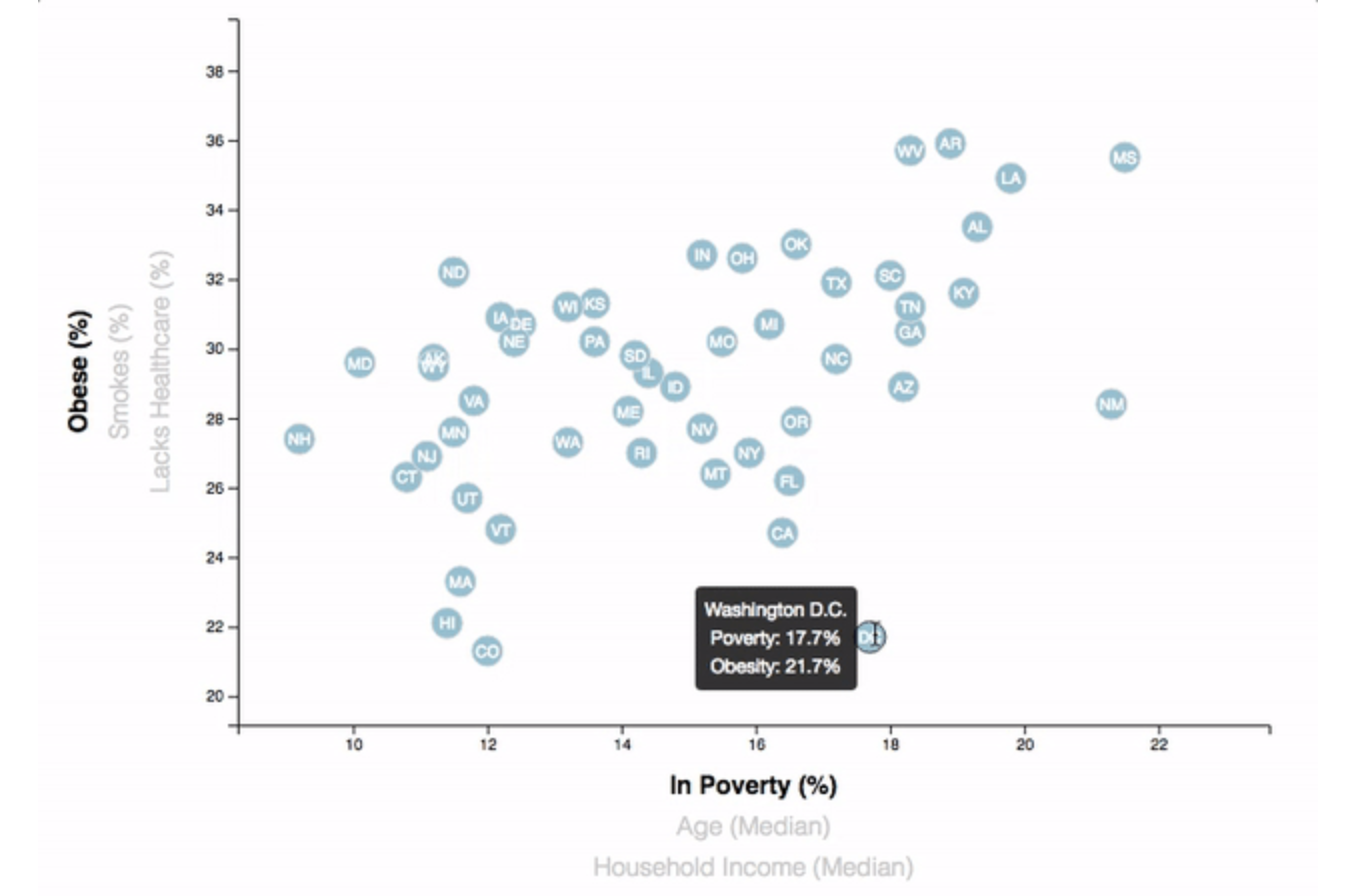
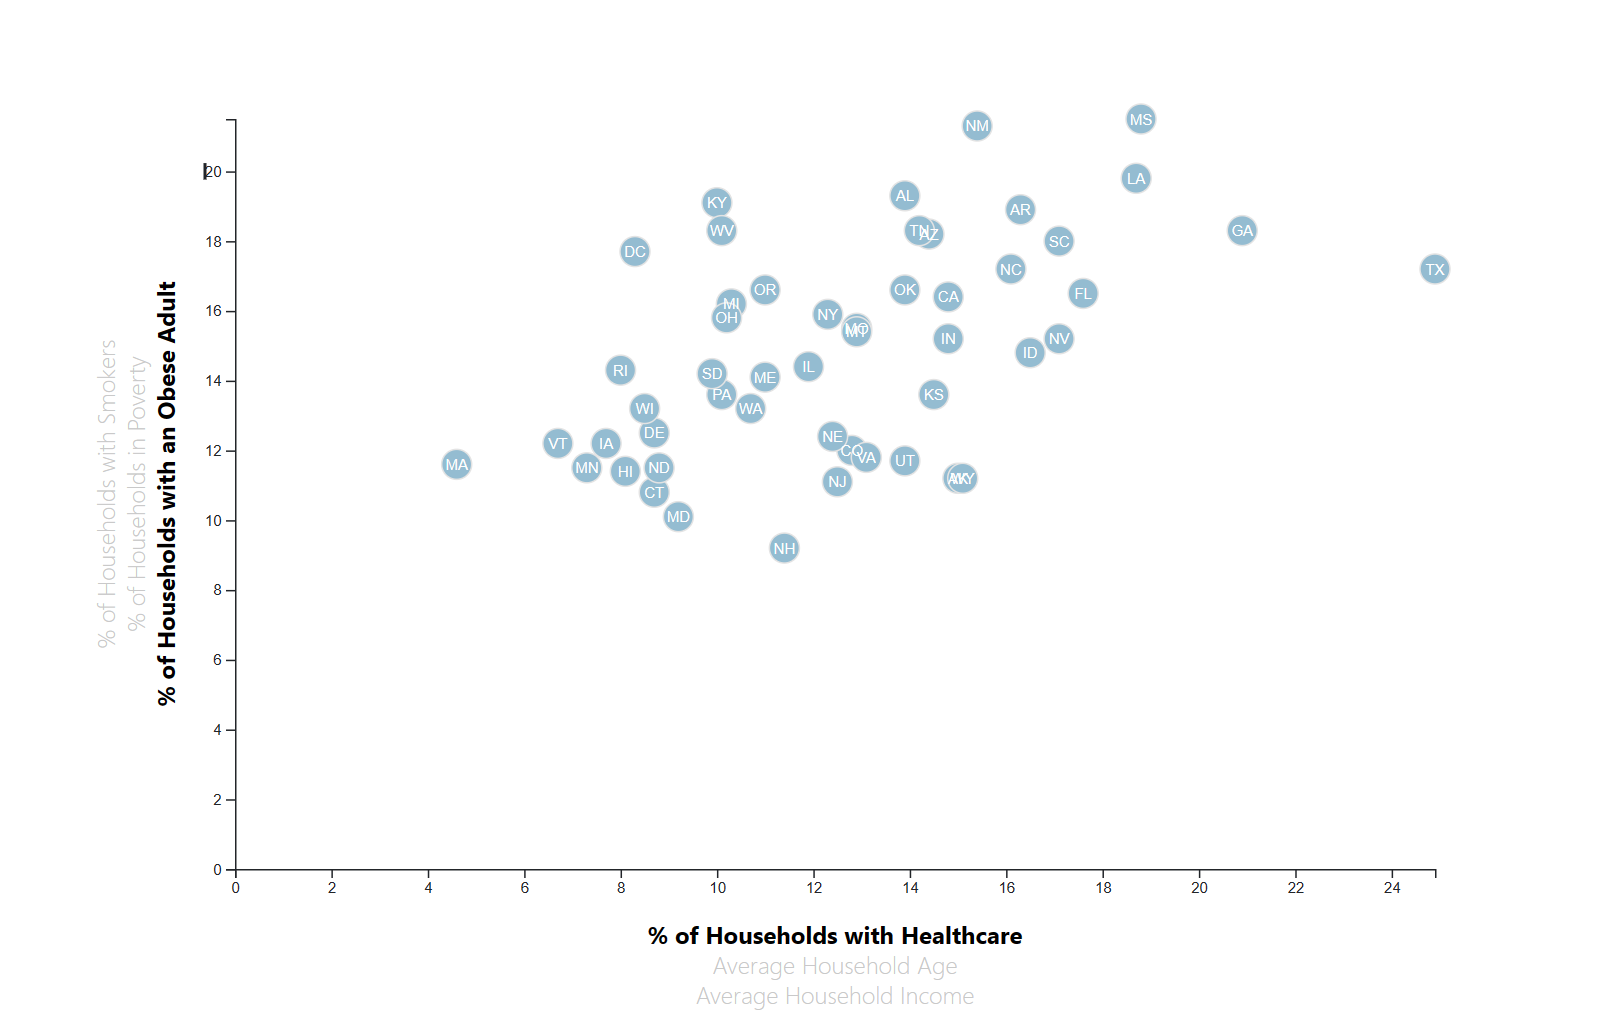
2023 update

diff --git a/projects.html b/projects.html
@@ -52,57 +52,58 @@
       <h1 class="lg-heading">
         <span class="text-secondary">Projects</span>
       </h1>
+      <div class="project-item">
+        <h2 class="proj-title">
+          Supreme Court Opinion Prediction
+        </h2>
+        <p class="proj-description">
+          In the leadup to many US Supreme Court cases, there is sometimes consensus on the expected rulings, which seem to be based on the existing rulings made by the court and Its Justices. Predictions based on existing and publicly accessible text? Sounds like a deep learning project! This is a rudimentary attempt at predicting the Supreme Court’s ruling on a case when provided a brief overview of the case.
+        </p>
+        <a href="#!">
+          <iframe
+          class="embedded-hf-frame"
+          src="https://akfung-phoenix-byte.hf.space"
+          frameborder="0">
+          </iframe>
+        </a>
 
-      <div class="projects">
-        <!-- each item class has link to project page and github -->
-
-        <div class="item">
-          <h2 class="proj-title">
-            Machine Learning in Facebook Ad Analysis
-          </h2>
-          <a href="#!">
-            <img src="img/projects/ad_learning.png" alt="Ad_learning_project" />
-          </a>
-          <p class="proj-description">
-            An analysis of political ads on Facebook powered by a Tensorflow RNN
-            for natural language processing. Built with Flask, bootstrap,
-            amCharts4, Plotly, and deployed on Heroku.
-          </p>
-          <a class="btn-light" href="https://ad-learning.herokuapp.com/">
-            <i class="fas fa-eye">Project</i>
-          </a>
-          <a class="btn-dark" href="https://github.com/akfung/Ad-learning">
-            <i class="fab fa-github">Github</i>
-          </a>
-        </div>
-
-        <div class="item">
-          <h2 class="proj-title">Low Income Comorbidities</h2>
-          <a href="#!">
-            <img src="img/projects/d3_project.png" alt="d3_project" />
-          </a>
-          <p class="proj-description">
-            A D3.js project for a DOM manipulation based visualization of the
-            several health outcomes of low income households.
-          </p>
-          <a
-            class="btn-light"
-            href="https://akfung.github.io/low-income-visualization/"
-          >
-            <i class="fas fa-eye">Project</i>
-          </a>
-          <a
-            class="btn-dark"
-            href="https://github.com/akfung/low-income-visualization"
-          >
-            <i class="fab fa-github">Github</i>
-          </a>
-        </div>
+        <a class="btn-light" href="https://huggingface.co/spaces/akfung/phoenix-byte">
+          <i class="fas fa-eye"> Project</i>
+        </a>
+        <a class="btn-dark" href="https://github.com/akfung/phoenix-byte">
+          <i class="fab fa-github"> Github</i>
+        </a>
       </div>
+
+      <div class="project-item">
+        <h2 class="proj-title">Low Income Comorbidities</h2>
+        <p class="proj-description">
+          A D3.js project for a DOM manipulation based visualization of the
+          several health outcomes of low income households.
+        </p>
+        <a href="https://akfung.github.io/low-income-visualization/"">
+          <img class="embedded-hf-frame" src="img/projects/d3_project.png" alt="d3_project" />
+        </a>
+
+        <a
+          class="btn-light"
+          href="https://akfung.github.io/low-income-visualization/"
+        >
+          <i class="fas fa-eye"> Project</i>
+        </a>
+        <a
+          class="btn-dark"
+          href="https://github.com/akfung/low-income-visualization"
+        >
+          <i class="fab fa-github"> Github</i>
+        </a>
+      </div>
+
+      
     </main>
 
     <footer id="main-footer">
-      Last Updated July 2020
+      Last Updated December 2023
     </footer>
 
     <script src="js/main.js"></script>

diff --git a/index.html b/index.html
@@ -77,15 +77,28 @@
         </div>
 
         <div class="job job-1">
+          <h3>Material Plus</h3>
+          <h5>Machine Learning Engineer</h5>
+          <h5>June 2021 - Present</h5>
+          <p>
+            Engineer, deploy, and monitor APIs for enterprise XGBoost machine learning applications in parallel cloud environments. 
+            Develop and design ML clustering models for customer behavior segmentation and similarity detection. 
+            Modernize linear and logistic bagging applications for predicting drivers of brand outcomes. 
+            Communicate with stakeholders and clients to elucidate ML concepts and align ML technical requirements with business objectives.
+            Create and optimize PySpark data processing pipelines for analysis of client data with millions of records.
+          </p>
+        </div>
+
+        <div class="job job-2">
           <h3>Sci Find</h3>
           <h5>Machine Learning Engineer</h5>
-          <h5>September 2020 - Present</h5>
+          <h5>September 2020 - June 2021</h5>
           <p>
             Developed the primary data processing pipelines, including modules for similarity detection, unsupervised clustering, and NLP. Generated BI data and visualizations for market research from web scraping. Developed a Node web application deployed through AWS lambda. Analyzed and collected app data with Google Analytics and Customer.io.
           </p>
         </div>
 
-        <div class="job job-2">
+        <div class="job job-3">
           <h3>City of Hope</h3>
           <h5>Research Associate</h5>
           <h5>March 2019 - March 2020</h5>
@@ -99,18 +112,7 @@
           </p>
         </div>
 
-        <div class="job job-3">
-          <h3>Fruman Lab</h3>
-          <h5>Graduate Student Researcher</h5>
-          <h5>April 2017 - August 2018</h5>
-          <p>
-            Analyzed signaling and survival effects of novel leukemia treatment
-            compound on cancer cells through high throughput frequency
-            statistics. Compared treatment effects to primary lymphocytes.
-            Conducted <i>in vivo</i> leukemia treatment models for mouse
-            studies.
-          </p>
-        </div>
+        
       </div>
     </main>
 

diff --git a/css/main.css b/css/main.css
@@ -216,6 +216,18 @@ main {
       transform: scale(1.05, 1.05);
       transition: all 0.3s ease-out; }
 
+.embedded-hf-frame {
+  width: 90vw;
+  height: 90vh;
+  align-items: center;
+  margin-top: 3vh;
+  margin-bottom: 2vh
+}
+
+.project-item {
+  margin-bottom: 5vh;
+}
+
 .boxes {
   display: block;
   justify-content: space-evenly;
@@ -248,8 +260,8 @@ main {
   color: white; }
 
 .btn-light {
-  background: gray;
-  color: black; }
+  background: black;
+  color: white; }
 
 #main-footer {
   text-align: center;
